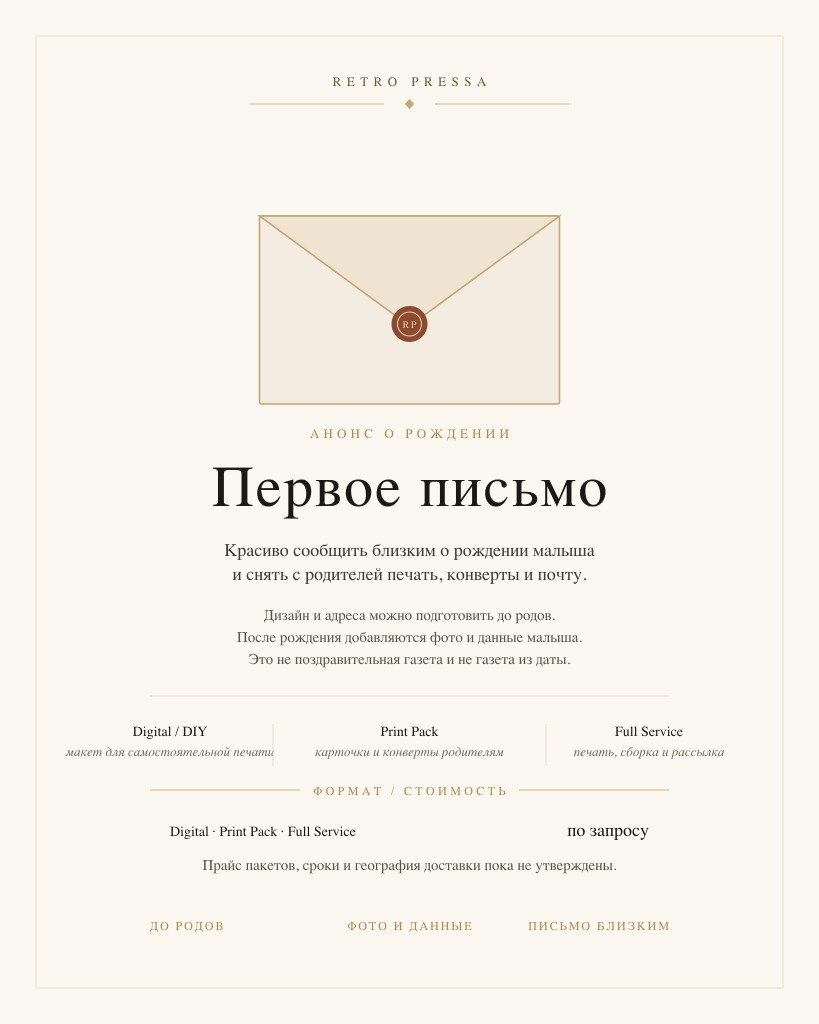
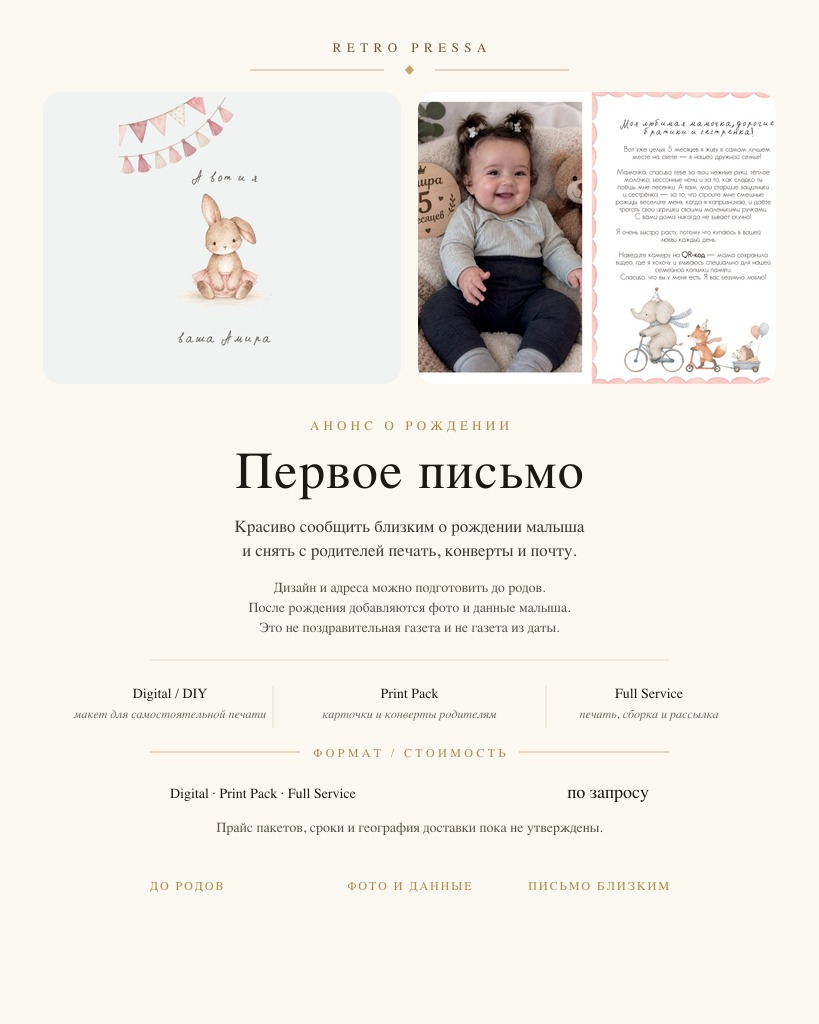
Put the real Первое письмо postcard designs on the product card.
Replace the empty envelope placeholder with approved front and inside spreads from the client PDFs.

diff --git a/src/data/pervoe-pismo-training.ts b/src/data/pervoe-pismo-training.ts
@@ -48,6 +48,40 @@ export const pervoePismoProduct: ProductTrainingModule = {
       content:
         "Вы уже решили, как будете сообщать родным о рождении? Кому хочется рассказать особенно красиво? Все эти люди находятся рядом или кто-то живёт в другом городе или стране? Примерно сколько получателей вы представляете? Вы хотите отправлять открытки самостоятельно или удобнее, чтобы сервис взял это на себя? Ребёнок уже родился или вы только готовитесь? Вам ближе физическая открытка или вы пока рассматриваете цифровой вариант? Вы хотите использовать фотографию малыша или предпочли бы иллюстрацию? Насколько вам близка идея текста от имени ребёнка? Нужны ли разные персональные обращения для бабушек, дедушек, крестных и друзей? В какие страны или города потребуется доставка? Хотели бы вы получить готовые открытки себе домой или отправлять их сразу адресатам?\n\nОперационные вопросы для расчёта: точное количество адресатов, страны доставки, необходимый язык или языки, наличие готовой фотографии, необходимость персонального текста, желаемая степень участия клиента и приблизительная дата, к которой заказ должен быть готов. Если система пока не поддерживает часть этих опций, менеджер не обещает их, а фиксирует запрос и уточняет возможность исполнения.",
       sortOrder: 3
+    },
+    {
+      id: "img-pervoe-pismo-gallery-inside-ru",
+      type: "image",
+      title: "Разворот открытки — фото малыша и письмо от первого лица",
+      url: "/training/pervoe-pismo/inside-ru.jpg",
+      content: "wide",
+      sectionKey: "gallery",
+      sortOrder: 4
+    },
+    {
+      id: "img-pervoe-pismo-gallery-front-ru",
+      type: "image",
+      title: "Лицевая сторона — иллюстрация и обращение",
+      url: "/training/pervoe-pismo/front-ru.jpg",
+      sectionKey: "gallery",
+      sortOrder: 5
+    },
+    {
+      id: "img-pervoe-pismo-gallery-front-fr",
+      type: "image",
+      title: "Лицевая сторона на французском",
+      url: "/training/pervoe-pismo/front-fr.jpg",
+      sectionKey: "gallery",
+      sortOrder: 6
+    },
+    {
+      id: "img-pervoe-pismo-gallery-inside-fr",
+      type: "image",
+      title: "Разворот открытки на французском",
+      url: "/training/pervoe-pismo/inside-fr.jpg",
+      content: "wide",
+      sectionKey: "gallery",
+      sortOrder: 7
     }
   ],
   questions: [

diff --git a/src/config/gifts-landing.ts b/src/config/gifts-landing.ts
@@ -268,7 +268,12 @@ export const GIFT_LANDING_ITEMS: GiftLandingItem[] = [
     gets: ["дизайн и адреса заранее", "фото и данные после рождения", "Digital, Print Pack или Full Service"],
     price: "по запросу",
     image: "/training/pervoe-pismo/cover.jpg",
-    gallery: []
+    gallery: [
+      "/training/pervoe-pismo/inside-ru.jpg",
+      "/training/pervoe-pismo/front-ru.jpg",
+      "/training/pervoe-pismo/front-fr.jpg",
+      "/training/pervoe-pismo/inside-fr.jpg"
+    ]
   },
   {
     id: "animate",
